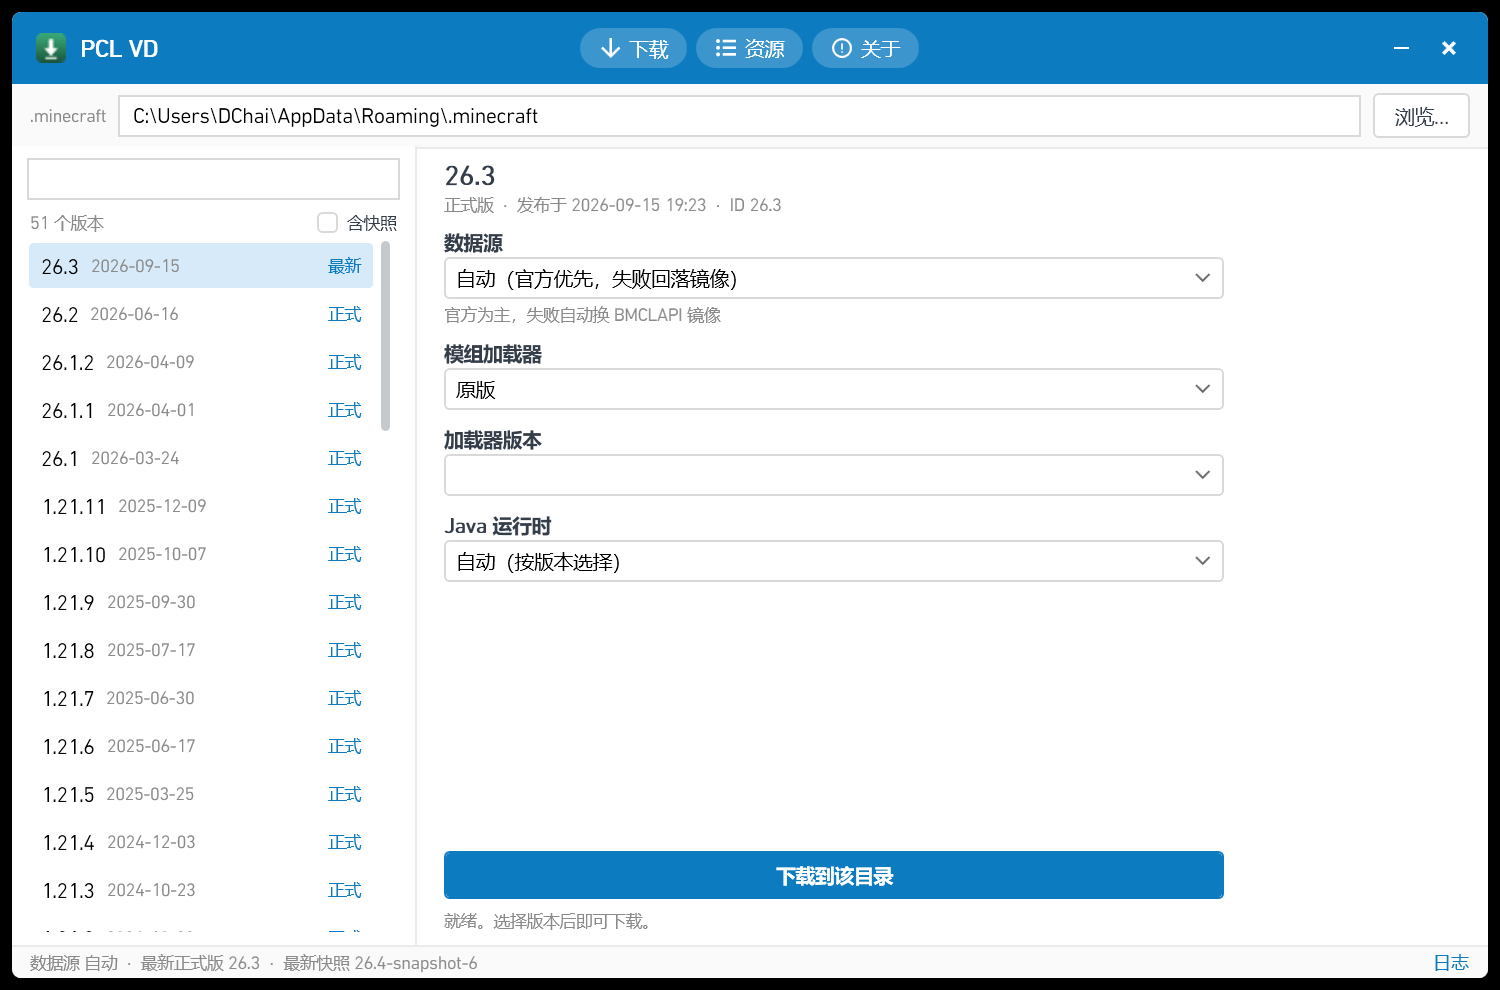
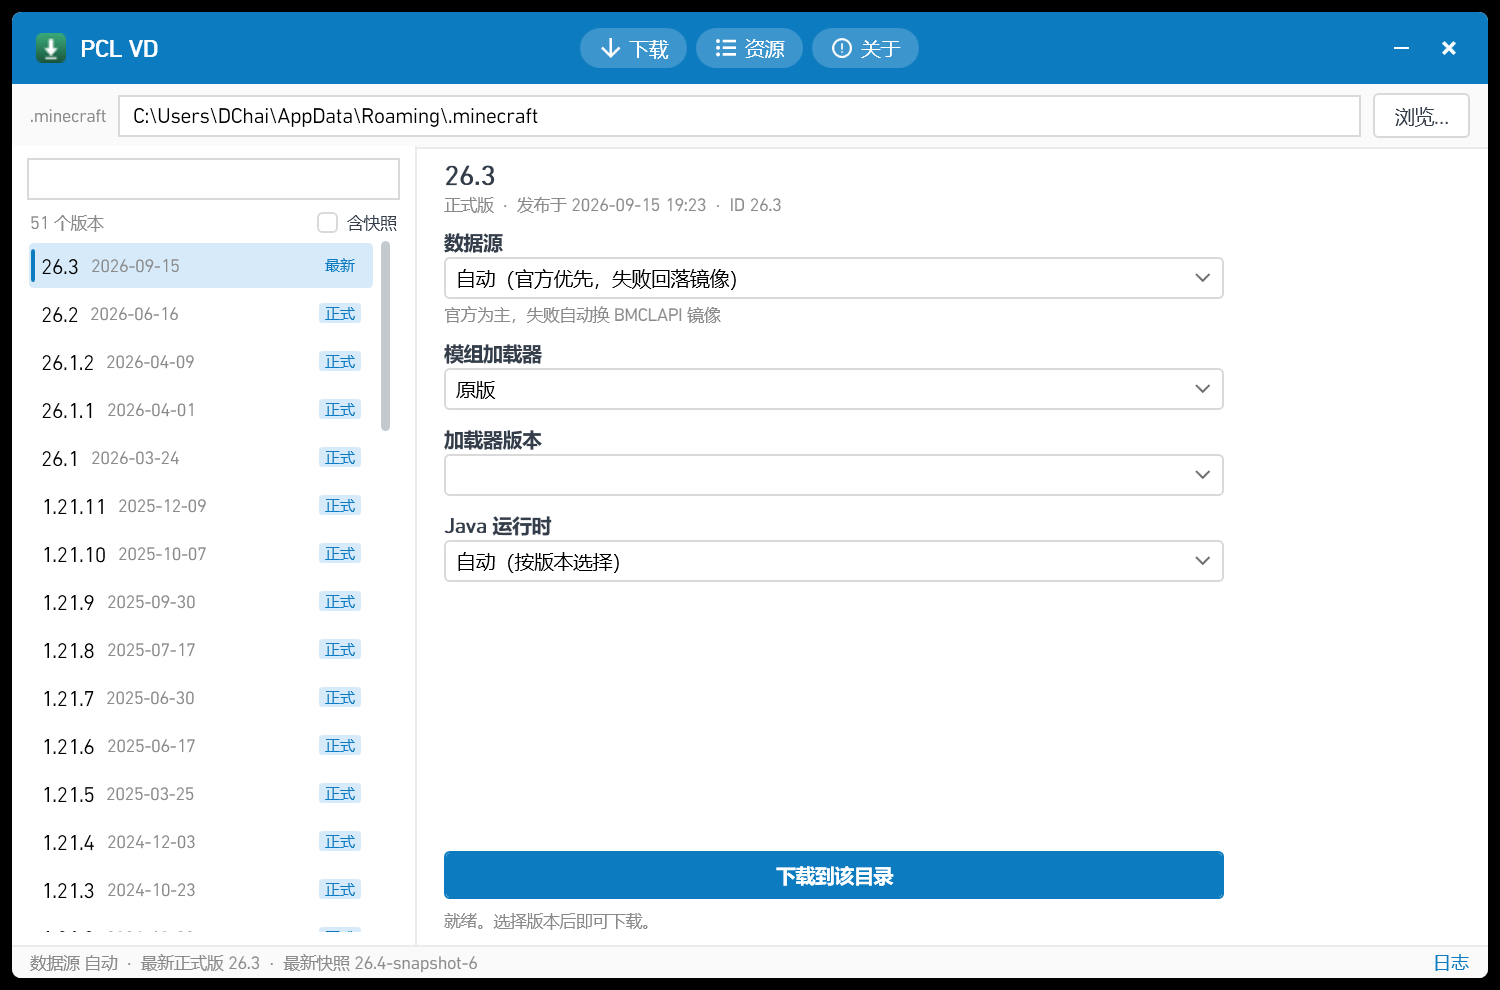
UI: 列表选中竖条/按钮按压缩放/版本徽章/加载转圈/滚动条 hover

diff --git a/src/Mcdl.Wpf/App.xaml b/src/Mcdl.Wpf/App.xaml
@@ -59,13 +59,34 @@
             <Border x:Name="Bd" Background="{TemplateBinding Background}"
                     BorderBrush="{TemplateBinding BorderBrush}"
                     BorderThickness="{TemplateBinding BorderThickness}"
-                    CornerRadius="3" SnapsToDevicePixels="True">
+                    CornerRadius="3" SnapsToDevicePixels="True" RenderTransformOrigin="0.5,0.5">
+              <Border.RenderTransform>
+                <ScaleTransform x:Name="Sc" ScaleX="1" ScaleY="1" />
+              </Border.RenderTransform>
               <ContentPresenter HorizontalAlignment="Center" VerticalAlignment="Center"
                                 Margin="{TemplateBinding Padding}" />
             </Border>
             <ControlTemplate.Triggers>
               <Trigger Property="IsMouseOver" Value="True">
                 <Setter TargetName="Bd" Property="Background" Value="{StaticResource ColorBrush8}" />
+              </Trigger>
+              <Trigger Property="IsPressed" Value="True">
+                <Trigger.EnterActions>
+                  <BeginStoryboard>
+                    <Storyboard>
+                      <DoubleAnimation Storyboard.TargetName="Sc" Storyboard.TargetProperty="ScaleX" To="0.96" Duration="0:0:0.07" />
+                      <DoubleAnimation Storyboard.TargetName="Sc" Storyboard.TargetProperty="ScaleY" To="0.96" Duration="0:0:0.07" />
+                    </Storyboard>
+                  </BeginStoryboard>
+                </Trigger.EnterActions>
+                <Trigger.ExitActions>
+                  <BeginStoryboard>
+                    <Storyboard>
+                      <DoubleAnimation Storyboard.TargetName="Sc" Storyboard.TargetProperty="ScaleX" To="1" Duration="0:0:0.12" />
+                      <DoubleAnimation Storyboard.TargetName="Sc" Storyboard.TargetProperty="ScaleY" To="1" Duration="0:0:0.12" />
+                    </Storyboard>
+                  </BeginStoryboard>
+                </Trigger.ExitActions>
               </Trigger>
             </ControlTemplate.Triggers>
           </ControlTemplate>
@@ -259,7 +280,13 @@
                   <Thumb>
                     <Thumb.Template>
                       <ControlTemplate TargetType="Thumb">
-                        <Border Background="#C4C9CE" CornerRadius="3" Width="6" />
+                        <Border x:Name="Th" Background="#C4C9CE" CornerRadius="3" Width="6" />
+                        <ControlTemplate.Triggers>
+                          <Trigger Property="IsMouseOver" Value="True">
+                            <Setter TargetName="Th" Property="Background" Value="#9AA2AA" />
+                            <Setter TargetName="Th" Property="Width" Value="8" />
+                          </Trigger>
+                        </ControlTemplate.Triggers>
                       </ControlTemplate>
                     </Thumb.Template>
                   </Thumb>
@@ -284,15 +311,20 @@
       <Setter Property="Template">
         <Setter.Value>
           <ControlTemplate TargetType="ListBoxItem">
-            <Border x:Name="Bd" Background="Transparent" CornerRadius="3" SnapsToDevicePixels="True">
-              <ContentPresenter />
-            </Border>
+            <Grid>
+              <Border x:Name="Bd" Background="Transparent" CornerRadius="3" SnapsToDevicePixels="True">
+                <ContentPresenter />
+              </Border>
+              <Border x:Name="Bar" Width="3" HorizontalAlignment="Left" Margin="1,4" CornerRadius="1.5"
+                      Background="{StaticResource ColorBrush2}" Visibility="Collapsed" />
+            </Grid>
             <ControlTemplate.Triggers>
               <Trigger Property="IsMouseOver" Value="True">
                 <Setter TargetName="Bd" Property="Background" Value="{StaticResource ColorBrush8}" />
               </Trigger>
               <Trigger Property="IsSelected" Value="True">
                 <Setter TargetName="Bd" Property="Background" Value="{StaticResource ColorBrush7}" />
+                <Setter TargetName="Bar" Property="Visibility" Value="Visible" />
               </Trigger>
             </ControlTemplate.Triggers>
           </ControlTemplate>
@@ -306,5 +338,33 @@
       <Setter Property="BorderThickness" Value="0,0,1,0" />
     </Style>
 
+      <!-- 加载转圈：旋转弧线 -->
+    <Style x:Key="LoadingRing" TargetType="Path">
+      <Setter Property="Width" Value="14" />
+      <Setter Property="Height" Value="14" />
+      <Setter Property="Stretch" Value="Uniform" />
+      <Setter Property="Stroke" Value="{StaticResource ColorBrush2}" />
+      <Setter Property="StrokeThickness" Value="2.2" />
+      <Setter Property="StrokeDashArray" Value="12 5" />
+      <Setter Property="StrokeStartLineCap" Value="Round" />
+      <Setter Property="StrokeEndLineCap" Value="Round" />
+      <Setter Property="RenderTransformOrigin" Value="0.5,0.5" />
+      <Setter Property="Data" Value="M 7,1 A 6,6 0 1 1 6.9,1" />
+      <Setter Property="RenderTransform">
+        <Setter.Value>
+          <RotateTransform Angle="0" />
+        </Setter.Value>
+      </Setter>
+      <Style.Triggers>
+        <EventTrigger RoutedEvent="Loaded">
+          <BeginStoryboard>
+            <Storyboard RepeatBehavior="Forever">
+              <DoubleAnimation Storyboard.TargetProperty="(UIElement.RenderTransform).(RotateTransform.Angle)"
+                               From="0" To="360" Duration="0:0:0.9" />
+            </Storyboard>
+          </BeginStoryboard>
+        </EventTrigger>
+      </Style.Triggers>
+    </Style>
   </Application.Resources>
 </Application>

diff --git a/src/Mcdl.Wpf/MainWindow.xaml b/src/Mcdl.Wpf/MainWindow.xaml
@@ -136,8 +136,11 @@
                       <TextBlock Grid.Column="0" Text="{Binding Id}" FontSize="13" VerticalAlignment="Center" />
                       <TextBlock Grid.Column="1" Text="{Binding SubText}" FontSize="11" Margin="8,0,0,0"
                                  VerticalAlignment="Center" Foreground="{StaticResource ColorBrushGray4}" />
-                      <TextBlock Grid.Column="2" Text="{Binding TypeLabel}" FontSize="11"
-                                 VerticalAlignment="Center" Foreground="{StaticResource ColorBrush2}" />
+                      <Border Grid.Column="2" Background="{StaticResource ColorBrush7}" CornerRadius="2"
+                              Padding="4,1" VerticalAlignment="Center">
+                        <TextBlock Text="{Binding TypeLabel}" FontSize="10"
+                                   Foreground="{StaticResource ColorBrush2}" />
+                      </Border>
                     </Grid>
                   </DataTemplate>
                 </ListBox.ItemTemplate>
@@ -239,7 +242,11 @@
                 <ComboBox Grid.Column="2" ItemsSource="{Binding ResourceLoaderOptions}"
                           SelectedItem="{Binding SelectedResourceLoaderOption, Mode=TwoWay}" />
               </Grid>
-              <TextBlock Grid.Row="3" Text="{Binding ResourceCountText}" Style="{StaticResource Muted}" Margin="2,0,2,6" />
+              <StackPanel Grid.Row="3" Orientation="Horizontal" Margin="2,0,2,6">
+                <Path Style="{StaticResource LoadingRing}" VerticalAlignment="Center" Margin="0,0,6,0"
+                      Visibility="{Binding IsResourceBusy, Converter={StaticResource BoolToVis}}" />
+                <TextBlock Text="{Binding ResourceCountText}" Style="{StaticResource Muted}" VerticalAlignment="Center" />
+              </StackPanel>
               <ListBox Grid.Row="4" ItemsSource="{Binding ResourceResults}"
                        SelectedItem="{Binding SelectedResource, Mode=TwoWay}">
                 <ListBox.ItemTemplate>
